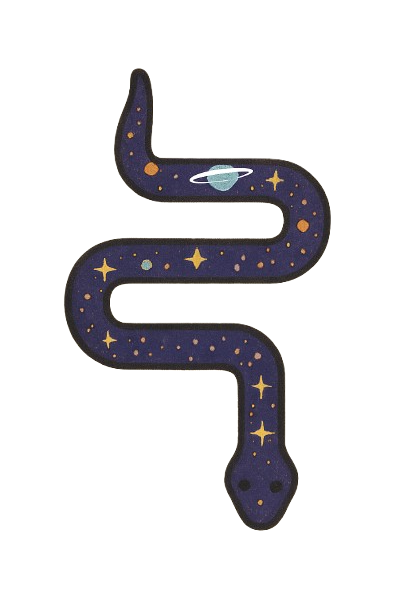
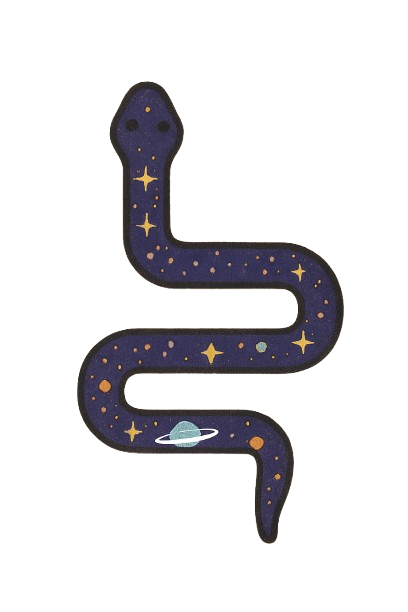
fix img position

Changed region(s): [[0.1471, 0.0931, 0.8529, 0.9003]]

diff --git a/lib/view/snakes_store/snakes_store_screen.dart b/lib/view/snakes_store/snakes_store_screen.dart
@@ -150,11 +150,12 @@ class _SnakesStoreScreenState extends State<SnakesStoreScreen>
           SliverPadding(
             padding: const EdgeInsets.all(16),
             sliver: SliverGrid(
-              gridDelegate: const SliverGridDelegateWithFixedCrossAxisCount(
-                crossAxisCount: 2,
-                childAspectRatio: 0.7,
-                crossAxisSpacing: 16,
-                mainAxisSpacing: 16,
+              gridDelegate: SliverGridDelegateWithFixedCrossAxisCount(
+                crossAxisCount: (MediaQuery.of(context).size.width ~/ 180)
+                    .clamp(2, 6),
+                crossAxisSpacing: MediaQuery.of(context).size.width * 0.04,
+                mainAxisSpacing: MediaQuery.of(context).size.height * 0.02,
+                childAspectRatio: 0.6,
               ),
               delegate: SliverChildBuilderDelegate((context, index) {
                 final snake = SnakeDesignsData.snakeDesigns[index];
@@ -191,304 +192,3 @@ class _SnakesStoreScreenState extends State<SnakesStoreScreen>
     );
   }
 }
-
-// import 'package:easy_localization/easy_localization.dart';
-// import 'package:flutter/material.dart';
-// import '../../core/constants/game_colors.dart';
-// import '../../core/helpers/navigate_helper.dart';
-// import '../../model/snake_design.dart';
-// import 'data/snake_designs_data.dart';
-// import 'services/snakes_store_service.dart';
-// import 'widgets/insufficient_resources_dialog.dart';
-// import 'widgets/purchase_success_dialog.dart';
-// import 'widgets/snake_card.dart';
-// import 'widgets/user_stats_header.dart';
-
-// enum PurchaseMode { level, points }
-
-// class SnakesStoreScreen extends StatefulWidget {
-//   const SnakesStoreScreen({super.key});
-
-//   @override
-//   State<SnakesStoreScreen> createState() => _SnakesStoreScreenState();
-// }
-
-// class _SnakesStoreScreenState extends State<SnakesStoreScreen>
-//     with TickerProviderStateMixin {
-//   int userCoins = 0;
-//   int userLevel = 1;
-//   int selectedSnakeIndex = 0;
-//   List<bool> ownedSnakes = [];
-//   late AnimationController _glowController;
-//   late Animation<double> _glowAnimation;
-
-//   final SnakesStoreService _service = SnakesStoreService();
-
-//   PurchaseMode? _purchaseMode;
-
-//   @override
-//   void initState() {
-//     super.initState();
-//     _initializeGlowAnimation();
-//     _loadUserData().then((_) {
-//       WidgetsBinding.instance.addPostFrameCallback((_) {
-//         _showPurchaseModeDialog();
-//       });
-//     });
-//   }
-
-//   void _initializeGlowAnimation() {
-//     _glowController = AnimationController(
-//       duration: const Duration(seconds: 2),
-//       vsync: this,
-//     );
-//     _glowAnimation = Tween<double>(begin: 0.3, end: 1.0).animate(
-//       CurvedAnimation(parent: _glowController, curve: Curves.easeInOut),
-//     );
-//     _glowController.repeat(reverse: true);
-//   }
-
-//   Future<void> _loadUserData() async {
-//     final userData = await _service.loadUserData();
-//     setState(() {
-//       userCoins = userData['userCoins'];
-//       userLevel = userData['userLevel'];
-//       selectedSnakeIndex = userData['selectedSnakeIndex'];
-//       ownedSnakes = userData['ownedSnakes'];
-//     });
-
-//     debugPrint("Owned snakes: $ownedSnakes");
-//   }
-
-//   Future<void> _saveUserData() async {
-//     await _service.saveUserData(
-//       userCoins: userCoins,
-//       userLevel: userLevel,
-//       selectedSnakeIndex: selectedSnakeIndex,
-//       ownedSnakes: ownedSnakes,
-//     );
-//   }
-
-//   void _buySnake(int index) {
-//     final snake = SnakeDesignsData.snakeDesigns[index];
-
-//     bool canBuy = false;
-//     if (_purchaseMode == PurchaseMode.points) {
-//       canBuy = userCoins >= snake.price;
-//     } else if (_purchaseMode == PurchaseMode.level) {
-//       canBuy = userLevel >= snake.requiredLevel;
-//     }
-
-//     if (canBuy) {
-//       setState(() {
-//         if (_purchaseMode == PurchaseMode.points) {
-//           userCoins -= snake.price;
-//         }
-//         ownedSnakes[index] = true;
-//         selectedSnakeIndex = index;
-//       });
-//       _saveUserData();
-//       _service.playPurchaseSound();
-//       _showPurchaseSuccessDialog(snake.name);
-//     } else {
-//       _showInsufficientResourcesDialog(snake);
-//     }
-//   }
-
-//   void _selectSnake(int index) {
-//     if (ownedSnakes[index]) {
-//       setState(() {
-//         selectedSnakeIndex = index;
-//       });
-//       _saveUserData();
-//       _service.playSelectSound();
-//     }
-//   }
-
-//   void _showPurchaseSuccessDialog(String snakeName) {
-//     showDialog(
-//       context: context,
-//       builder: (context) => PurchaseSuccessDialog(snakeName: snakeName),
-//     );
-//   }
-
-//   void _showInsufficientResourcesDialog(SnakeDesign snake) {
-//     showDialog(
-//       context: context,
-//       builder: (context) => InsufficientResourcesDialog(
-//         snake: snake,
-//         userCoins: userCoins,
-//         userLevel: userLevel,
-//       ),
-//     );
-//   }
-
-//   void _showPurchaseModeDialog() {
-//     showDialog(
-//       context: context,
-//       barrierDismissible: true, // close when tapping outside
-//       builder: (context) => Dialog(
-//         shape: RoundedRectangleBorder(borderRadius: BorderRadius.circular(20)),
-//         backgroundColor: const Color(0xFF1C1C1E), // dark card bg
-//         child: Container(
-//           padding: const EdgeInsets.all(20),
-//           child: Column(
-//             mainAxisSize: MainAxisSize.min,
-//             children: [
-//               const Text(
-//                 "Choose Purchase Mode",
-//                 style: TextStyle(
-//                   fontSize: 18,
-//                   fontWeight: FontWeight.bold,
-//                   color: Colors.white,
-//                 ),
-//               ),
-//               const SizedBox(height: 12),
-//               const Text(
-//                 "Unlock snakes using coins or by reaching levels.",
-//                 style: TextStyle(fontSize: 14, color: Colors.white70),
-//                 textAlign: TextAlign.center,
-//               ),
-//               const SizedBox(height: 20),
-
-//               // Buttons row
-//               Row(
-//                 mainAxisAlignment: MainAxisAlignment.spaceEvenly,
-//                 children: [
-//                   // Coins button
-//                   ElevatedButton.icon(
-//                     onPressed: () {
-//                       setState(() => _purchaseMode = PurchaseMode.points);
-//                       Navigator.pop(context);
-//                     },
-//                     icon: const Icon(
-//                       Icons.monetization_on,
-//                       color: Colors.yellow,
-//                     ),
-//                     label: const Text(
-//                       "Coins",
-//                       style: TextStyle(color: Colors.white),
-//                     ),
-//                     style: ElevatedButton.styleFrom(
-//                       backgroundColor: const Color(0xFF2C2C2E), // dark button
-//                       padding: const EdgeInsets.symmetric(
-//                         horizontal: 20,
-//                         vertical: 12,
-//                       ),
-//                       shape: RoundedRectangleBorder(
-//                         borderRadius: BorderRadius.circular(12),
-//                       ),
-//                     ),
-//                   ),
-
-//                   // Level button
-//                   ElevatedButton.icon(
-//                     onPressed: () {
-//                       setState(() => _purchaseMode = PurchaseMode.level);
-//                       Navigator.pop(context);
-//                     },
-//                     icon: const Icon(Icons.star, color: Colors.blueAccent),
-//                     label: const Text(
-//                       "Level",
-//                       style: TextStyle(color: Colors.white),
-//                     ),
-//                     style: ElevatedButton.styleFrom(
-//                       backgroundColor: const Color(0xFF2C2C2E),
-//                       padding: const EdgeInsets.symmetric(
-//                         horizontal: 20,
-//                         vertical: 12,
-//                       ),
-//                       shape: RoundedRectangleBorder(
-//                         borderRadius: BorderRadius.circular(12),
-//                       ),
-//                     ),
-//                   ),
-//                 ],
-//               ),
-//             ],
-//           ),
-//         ),
-//       ),
-//     );
-//   }
-
-//   @override
-//   void dispose() {
-//     _glowController.dispose();
-//     super.dispose();
-//   }
-
-//   @override
-//   Widget build(BuildContext context) {
-//     return Scaffold(
-//       backgroundColor: ColorHelper.instance.gameBackgroundColor,
-//       appBar: AppBar(
-//         backgroundColor: ColorHelper.instance.secondary,
-//         elevation: 0,
-//         leading: IconButton(
-//           icon: Icon(Icons.arrow_back, color: ColorHelper.instance.onSecondary),
-//           onPressed: () => navigateBack(context),
-//         ),
-//         title: Text(
-//           context.tr('snake_store'),
-//           style: TextStyle(
-//             color: ColorHelper.instance.onSecondary,
-//             fontSize: 24,
-//             fontWeight: FontWeight.bold,
-//           ),
-//         ),
-//         centerTitle: true,
-//       ),
-//       body: CustomScrollView(
-//         slivers: [
-//           SliverToBoxAdapter(
-//             child: UserStatsHeader(userCoins: userCoins, userLevel: userLevel),
-//           ),
-//           SliverPadding(
-//             padding: const EdgeInsets.all(16),
-//             sliver: SliverGrid(
-//               gridDelegate: const SliverGridDelegateWithFixedCrossAxisCount(
-//                 crossAxisCount: 2,
-//                 childAspectRatio: 0.8,
-//                 crossAxisSpacing: 16,
-//                 mainAxisSpacing: 16,
-//               ),
-//               delegate: SliverChildBuilderDelegate((context, index) {
-//                 final snake = SnakeDesignsData.snakeDesigns[index];
-//                 final isOwned = ownedSnakes.isNotEmpty && ownedSnakes[index];
-//                 final isSelected = selectedSnakeIndex == index;
-
-//                 bool canBuy = false;
-//                 if (_purchaseMode == PurchaseMode.points) {
-//                   canBuy = userCoins >= snake.price;
-//                 } else if (_purchaseMode == PurchaseMode.level) {
-//                   canBuy = userLevel >= snake.requiredLevel;
-//                 }
-
-//                 final isLocked = !isOwned && !canBuy;
-
-//                 return SnakeCard(
-//                   snake: snake,
-//                   index: index,
-//                   isOwned: isOwned,
-//                   isSelected: isSelected,
-//                   canBuy: canBuy,
-//                   isLocked: isLocked,
-//                   glowAnimation: _glowAnimation,
-//                   purchaseMode: _purchaseMode,
-//                   onTap: () {
-//                     if (isOwned) {
-//                       _selectSnake(index);
-//                     } else if (canBuy) {
-//                       _buySnake(index);
-//                     }
-//                   },
-//                 );
-//               }, childCount: SnakeDesignsData.snakeDesigns.length),
-//             ),
-//           ),
-//         ],
-//       ),
-//     );
-//   }
-// }

diff --git a/lib/view/snakes_store/data/snake_designs_data.dart b/lib/view/snakes_store/data/snake_designs_data.dart
@@ -1,4 +1,3 @@
-import 'package:easy_localization/easy_localization.dart';
 import 'package:flutter/material.dart';
 import '../../../model/snake_design.dart';
 
@@ -6,7 +5,7 @@ class SnakeDesignsData {
   static final List<SnakeDesign> snakeDesigns = [
     SnakeDesign(
       //0
-      name: 'classic_snake'.tr(),
+      name: 'classic_snake',
       headColor: Color(0xFF58A6FF),
       bodyColor: Color(0xFF1F6FEB),
       price: 0,
@@ -30,7 +29,7 @@ class SnakeDesignsData {
 
     SnakeDesign(
       //1
-      name: 'terrok'.tr(),
+      name: 'terrok',
       headColor: Color(0xFF4ECDC4),
       bodyColor: Color(0xFF44A08D),
       price: 100,
@@ -52,7 +51,7 @@ class SnakeDesignsData {
     ),
     SnakeDesign(
       //2
-      name: 'verdantis'.tr(),
+      name: 'verdantis',
       headColor: Color.fromARGB(255, 136, 132, 131),
       bodyColor: Color.fromARGB(255, 161, 160, 160),
       price: 5000,
@@ -74,7 +73,7 @@ class SnakeDesignsData {
     ),
     SnakeDesign(
       //3
-      name: 'venomflare'.tr(),
+      name: 'venomflare',
       headColor: Color(0xFFFFD700),
       bodyColor: Color(0xFFDAA520),
       price: 20000,
@@ -96,7 +95,7 @@ class SnakeDesignsData {
     ),
     SnakeDesign(
       //4
-      name: 'ignis_fang'.tr(),
+      name: 'ignis_fang',
       headColor: Color(0xFF00FF41),
       bodyColor: Color(0xFF00CC33),
       price: 50000,
@@ -118,7 +117,7 @@ class SnakeDesignsData {
     ),
     SnakeDesign(
       //5
-      name: 'glacira'.tr(),
+      name: 'glacira',
       headColor: Color(0xFF6A0572),
       bodyColor: Color(0xFFAB83A1),
       price: 80000,
@@ -141,7 +140,7 @@ class SnakeDesignsData {
 
     SnakeDesign(
       //6
-      name: 'aetherion'.tr(),
+      name: 'aetherion',
       headColor: Color(0xFF6A0572),
       bodyColor: Color(0xFFAB83A1),
       price: 100000,
@@ -163,7 +162,7 @@ class SnakeDesignsData {
     ),
     SnakeDesign(
       //7
-      name: 'lumora'.tr(),
+      name: 'lumora',
       headColor: Color(0xFF6A0572),
       bodyColor: Color(0xFFAB83A1),
       price: 170000,
